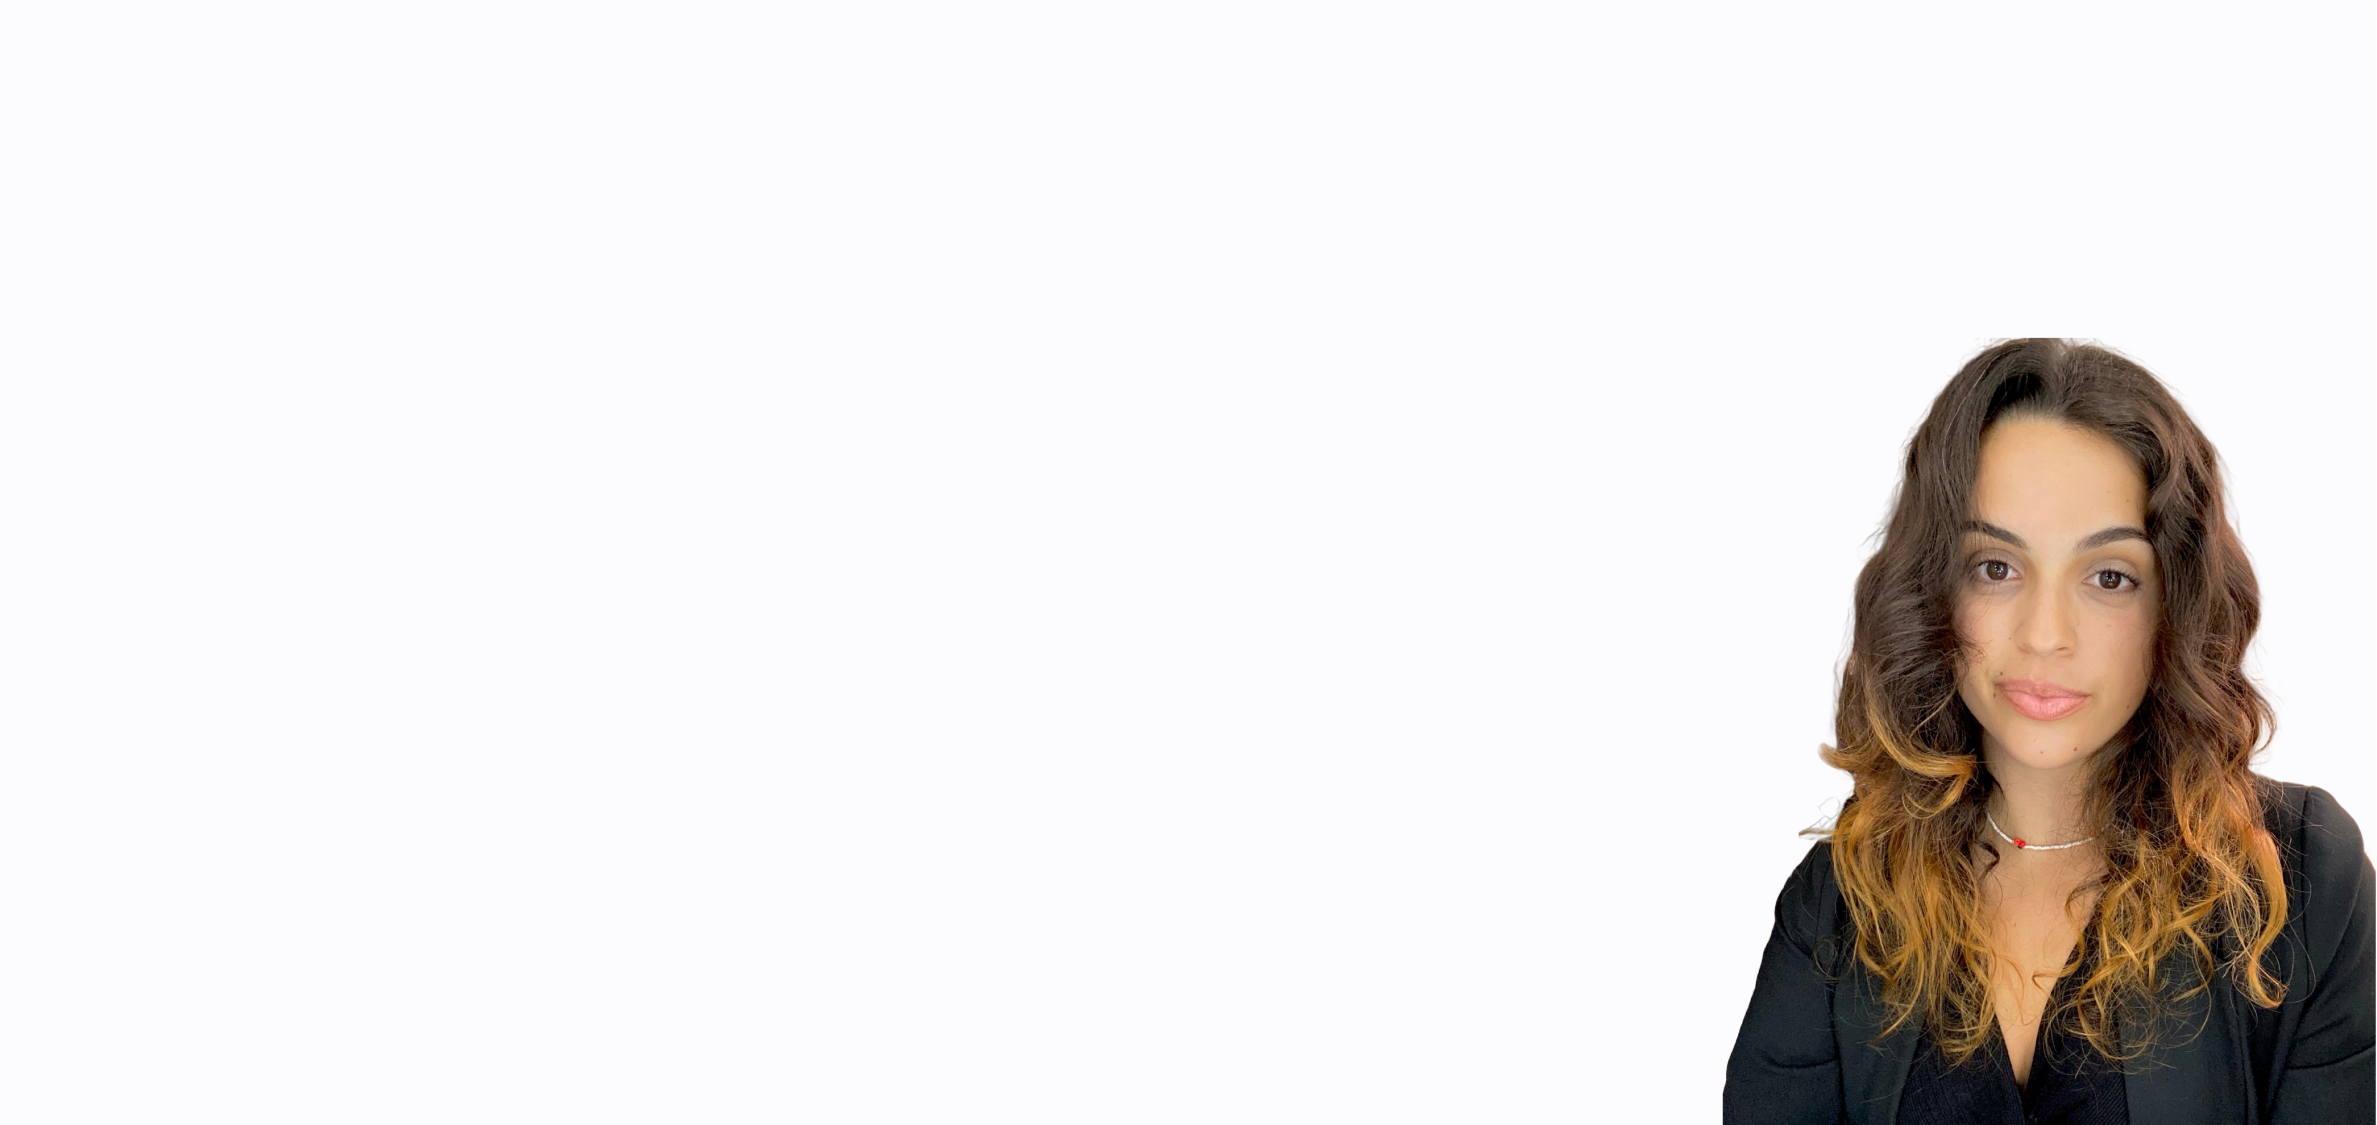
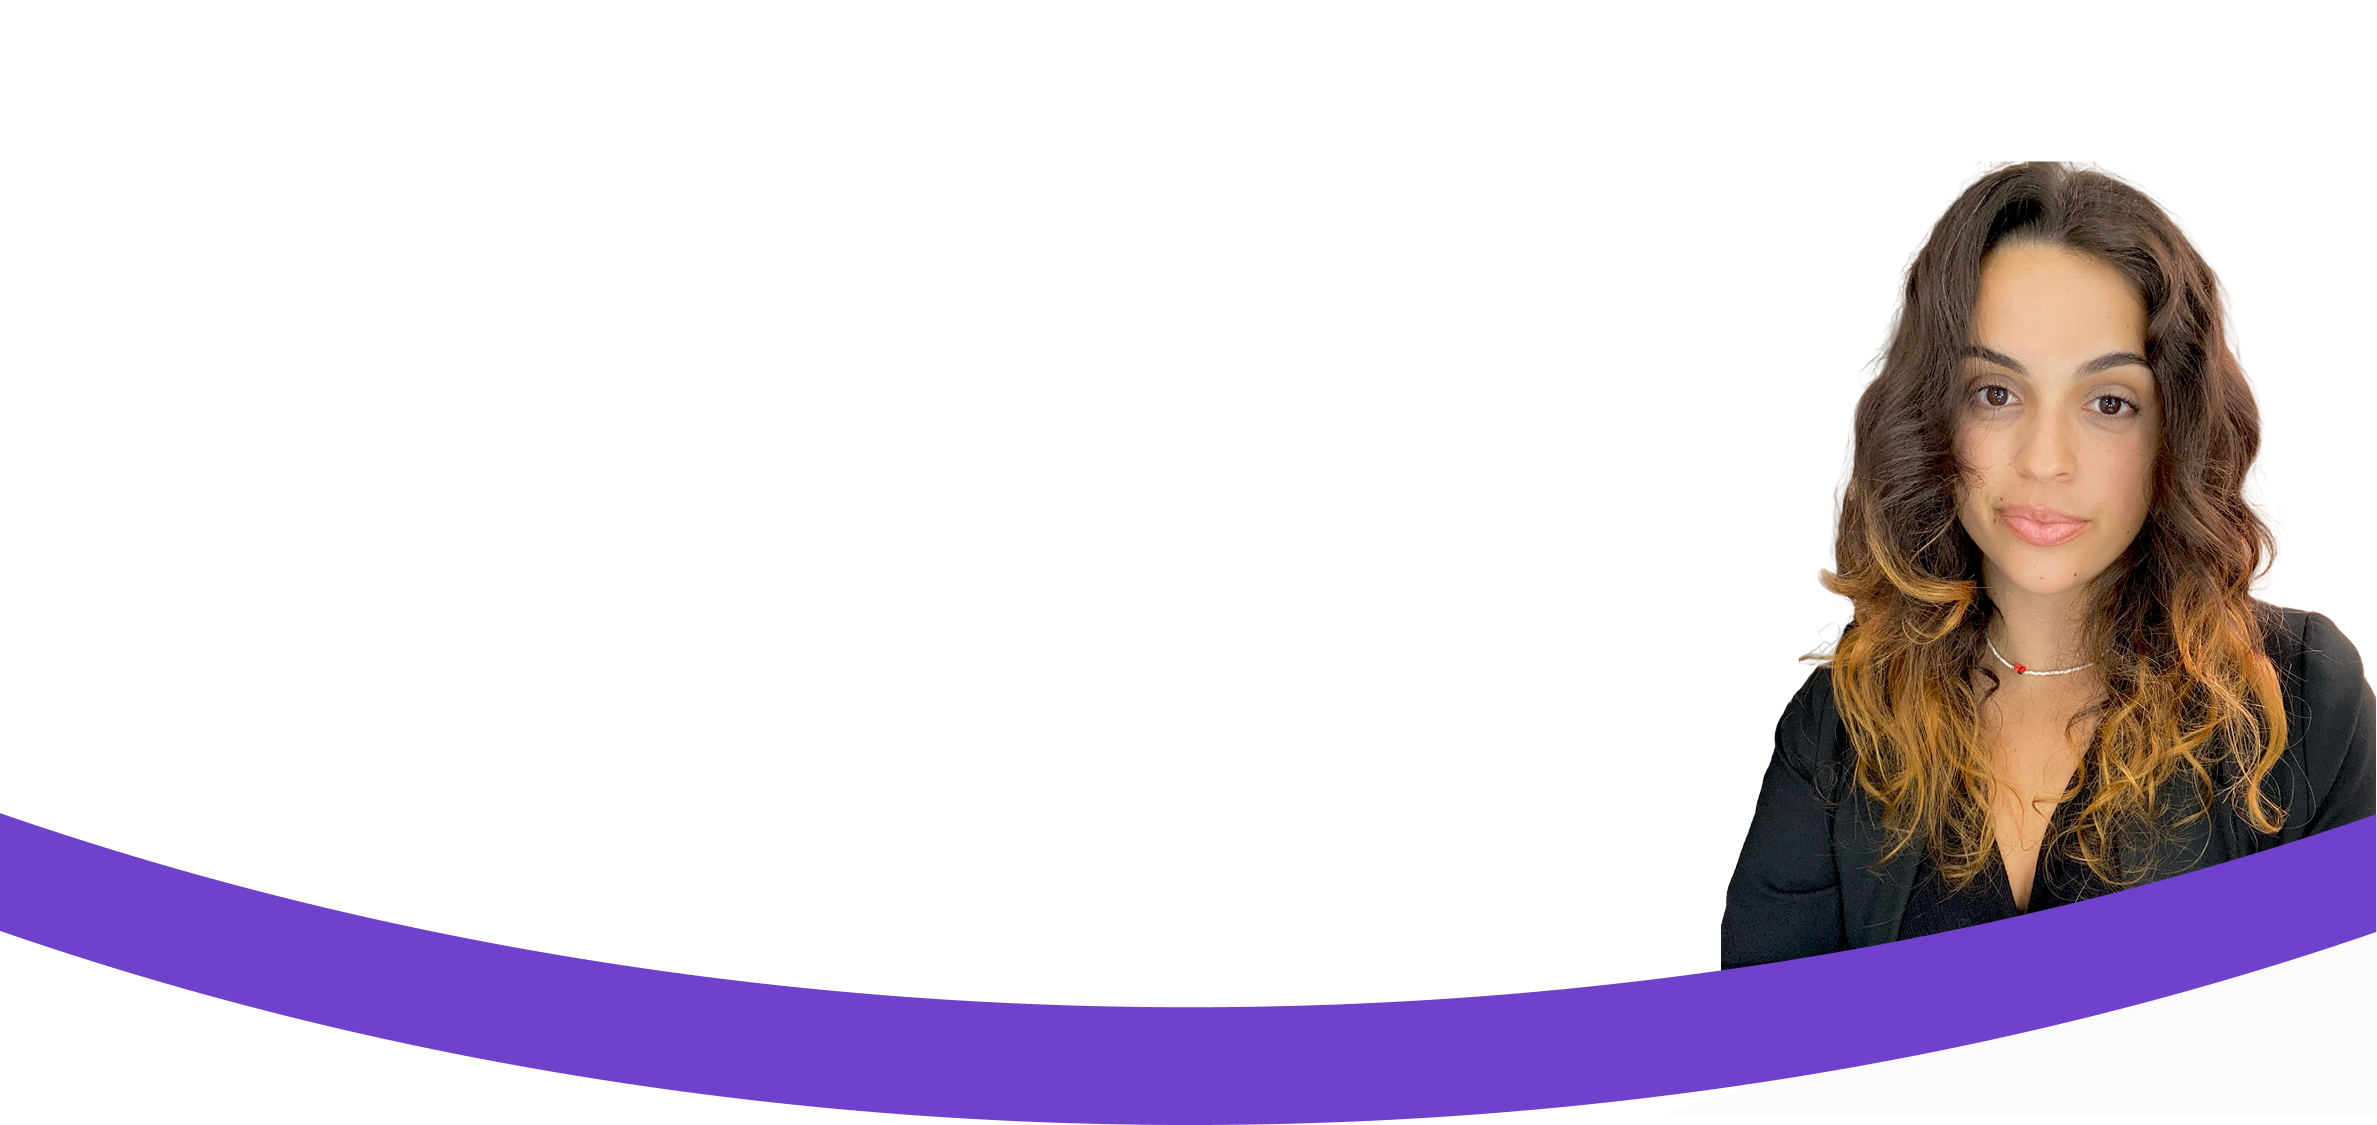
Hero fixes

Changed region(s): [[0.0, 0.1244, 1.0, 1.0]]

diff --git a/assets/scss/_index.scss b/assets/scss/_index.scss
@@ -14,7 +14,7 @@ $font-secondary: 'Koulen', sans-serif;
     padding: 136px 12px 68px 12px;
     background-image: url("../immagini/bg_hero_mobile.png");
     background-repeat: no-repeat;
-    background-position: bottom right;
+    background-position: center;
     background-size: 320px auto;
 }
 
@@ -33,38 +33,38 @@ $font-secondary: 'Koulen', sans-serif;
     text-decoration: none;
 }
 
-@media (min-width: 440px) {
-    #hero {
-        padding-bottom: 80px;
-        background-position: bottom 5px right;
-    }
-}
+// @media (min-width: 440px) {
+//     #hero {
+//         padding-bottom: 80px;
+//         background-position: bottom 5px right;
+//     }
+// }
 
-@media (min-width: 560px) {
-    #hero {
-        padding-bottom: 96px;
-        background-position: bottom 12px right;
-    }
-}
+// @media (min-width: 560px) {
+//     #hero {
+//         padding-bottom: 96px;
+//         background-position: bottom 12px right;
+//     }
+// }
 
-@media (min-width: 630px) {
-    #hero {
-        background-position: bottom 16px right;
-    }
-}
+// @media (min-width: 630px) {
+//     #hero {
+//         background-position: bottom 16px right;
+//     }
+// }
 
-@media (min-width: 680px) {
-    #hero {
-        background-position: bottom 20px right;
-    }
-}
+// @media (min-width: 680px) {
+//     #hero {
+//         background-position: bottom 20px right;
+//     }
+// }
 
 @media (min-width: 744px) {
     #hero {
         padding: 192px 32px 184px 32px;
         background-image: url("../immagini/bg_hero_tablet.png");
         background-repeat: no-repeat;
-        background-position: bottom right;
+        background-position: center;
         background-size: 477px auto;
     }
 
@@ -75,40 +75,40 @@ $font-secondary: 'Koulen', sans-serif;
     }
 }
 
-@media (min-width: 880px) {
-    #hero {
-        padding-bottom: 124px;
-        background-position: bottom 6px right;
-    }
-}
+// @media (min-width: 880px) {
+//     #hero {
+//         padding-bottom: 124px;
+//         background-position: bottom 6px right;
+//     }
+// }
 
-@media (min-width: 970px) {
-    #hero {
-        padding-bottom: 136px;
-        background-position: bottom 10px right;
-    }
-}
+// @media (min-width: 970px) {
+//     #hero {
+//         padding-bottom: 136px;
+//         background-position: bottom 10px right;
+//     }
+// }
 
-@media (min-width: 1040px) {
-    #hero {
-        padding-bottom: 148px;
-        background-position: bottom 14px right;
-    }
-}
+// @media (min-width: 1040px) {
+//     #hero {
+//         padding-bottom: 148px;
+//         background-position: bottom 14px right;
+//     }
+// }
 
-@media (min-width: 1180px) {
-    #hero {
-        padding-bottom: 172px;
-        background-position: bottom 24px right;
-    }
-}
+// @media (min-width: 1180px) {
+//     #hero {
+//         padding-bottom: 172px;
+//         background-position: bottom 24px right;
+//     }
+// }
 
 @media (min-width: 1280px) {
         #hero {
         padding: 156px 64px 132px 64px;
         background-image: url("../immagini/bg_hero_desktop.png");
         background-repeat: no-repeat;
-        background-position: bottom 24px right;
+        background-position: center;
         background-size: 1280px auto;
     }
 
@@ -123,34 +123,26 @@ $font-secondary: 'Koulen', sans-serif;
     }
 }
 
-@media (min-width: 1440px) {
-    #hero {
-        padding-bottom: 156px;
-        background-position: bottom 35px right 100px;
-    }
-}
+// @media (min-width: 1440px) {
+//     #hero {
+//         padding-bottom: 156px;
+//         background-position: bottom 35px right 100px;
+//     }
+// }
 
-@media (min-width: 1640px) {
-    #hero {
-        padding-bottom: 172px;
-        background-position: bottom 46px right 100px;
-    }
-}
+// @media (min-width: 1640px) {
+//     #hero {
+//         padding-bottom: 172px;
+//         background-position: bottom 46px right 100px;
+//     }
+// }
 
-@media (min-width: 1920px) {
-    #hero {
-        background-position: bottom 58px right 100px;
-    }
-}
+// @media (min-width: 1920px) {
+//     #hero {
+//         background-position: bottom 58px right 100px;
+//     }
+// }
 // -- HERO --
-
-.arch {
-    width: 100%;
-    height: 800px;
-    border: 32px solid $tertiary-color;
-    border-top: none;
-    border-radius: 0 0 100% 100%;
-}
 
 // -- SERVIZI --
 .servizi {

diff --git a/dist/css/main.css b/dist/css/main.css
@@ -2,7 +2,7 @@
   padding: 136px 12px 68px 12px;
   background-image: url("../immagini/bg_hero_mobile.png");
   background-repeat: no-repeat;
-  background-position: bottom right;
+  background-position: center;
   background-size: 320px auto;
 }
 
@@ -21,34 +21,12 @@
   text-decoration: none;
 }
 
-@media (min-width: 440px) {
-  #hero {
-    padding-bottom: 80px;
-    background-position: bottom 5px right;
-  }
-}
-@media (min-width: 560px) {
-  #hero {
-    padding-bottom: 96px;
-    background-position: bottom 12px right;
-  }
-}
-@media (min-width: 630px) {
-  #hero {
-    background-position: bottom 16px right;
-  }
-}
-@media (min-width: 680px) {
-  #hero {
-    background-position: bottom 20px right;
-  }
-}
 @media (min-width: 744px) {
   #hero {
     padding: 192px 32px 184px 32px;
     background-image: url("../immagini/bg_hero_tablet.png");
     background-repeat: no-repeat;
-    background-position: bottom right;
+    background-position: center;
     background-size: 477px auto;
   }
   #hero h2 {
@@ -57,36 +35,12 @@
     margin-bottom: 20px;
   }
 }
-@media (min-width: 880px) {
-  #hero {
-    padding-bottom: 124px;
-    background-position: bottom 6px right;
-  }
-}
-@media (min-width: 970px) {
-  #hero {
-    padding-bottom: 136px;
-    background-position: bottom 10px right;
-  }
-}
-@media (min-width: 1040px) {
-  #hero {
-    padding-bottom: 148px;
-    background-position: bottom 14px right;
-  }
-}
-@media (min-width: 1180px) {
-  #hero {
-    padding-bottom: 172px;
-    background-position: bottom 24px right;
-  }
-}
 @media (min-width: 1280px) {
   #hero {
     padding: 156px 64px 132px 64px;
     background-image: url("../immagini/bg_hero_desktop.png");
     background-repeat: no-repeat;
-    background-position: bottom 24px right;
+    background-position: center;
     background-size: 1280px auto;
   }
   #hero h2 {
@@ -98,31 +52,6 @@
     margin-bottom: 48px;
   }
 }
-@media (min-width: 1440px) {
-  #hero {
-    padding-bottom: 156px;
-    background-position: bottom 35px right 100px;
-  }
-}
-@media (min-width: 1640px) {
-  #hero {
-    padding-bottom: 172px;
-    background-position: bottom 46px right 100px;
-  }
-}
-@media (min-width: 1920px) {
-  #hero {
-    background-position: bottom 58px right 100px;
-  }
-}
-.arch {
-  width: 100%;
-  height: 800px;
-  border: 32px solid #7042CC;
-  border-top: none;
-  border-radius: 0 0 100% 100%;
-}
-
 .servizi {
   padding: 80px 12px 0 12px;
   margin-bottom: 32px;

diff --git a/assets/css/main.css b/assets/css/main.css
@@ -2,7 +2,7 @@
   padding: 136px 12px 68px 12px;
   background-image: url("../immagini/bg_hero_mobile.png");
   background-repeat: no-repeat;
-  background-position: bottom right 100px;
+  background-position: center;
   background-size: 320px auto;
 }
 
@@ -21,7 +21,7 @@
   text-decoration: none;
 }
 
-@media (min-width: 440px) {
+/* @media (min-width: 440px) {
   #hero {
     padding-bottom: 80px;
     background-position: bottom 5px right;
@@ -42,13 +42,13 @@
   #hero {
     background-position: bottom 20px right;
   }
-}
+} */
 @media (min-width: 744px) {
   #hero {
     padding: 192px 32px 184px 32px;
     background-image: url("../immagini/bg_hero_tablet.png");
     background-repeat: no-repeat;
-    background-position: bottom right 100px;
+    background-position: center;
     background-size: 744px auto;
   }
   #hero h2 {
@@ -57,7 +57,7 @@
     margin-bottom: 20px;
   }
 }
-@media (min-width: 880px) {
+/* @media (min-width: 880px) {
   #hero {
     padding-bottom: 124px;
     background-position: bottom 6px right;
@@ -80,14 +80,13 @@
     padding-bottom: 172px;
     background-position: bottom 24px right;
   }
-}
+} */
 @media (min-width: 1280px) {
   #hero {
     padding: 156px 64px 132px 64px;
-    transform: translateX(-50%);
     background-image: url("../immagini/bg_hero_desktop.png");
     background-repeat: no-repeat;
-    background-position: bottom 24px right;
+    background-position: center;
     background-size: 1280px auto;
   }
   #hero h2 {
@@ -99,7 +98,7 @@
     margin-bottom: 48px;
   }
 }
-@media (min-width: 1440px) {
+/* @media (min-width: 1440px) {
   #hero {
     padding-bottom: 156px;
     background-position: bottom 35px right;
@@ -115,14 +114,8 @@
   #hero {
     background-position: bottom 58px right;
   }
-}
-.arch {
-    width: 100%;
-    height: 800px;
-    border: 32px solid #7042CC;
-    border-bottom: none;
-    border-radius: 0 0 100% 100%;
-}
+} */
+
 .servizi {
   padding: 80px 12px 0 12px;
   margin-bottom: 32px;

diff --git a/index.html b/index.html
@@ -58,8 +58,6 @@
       <a href="contattami.html" class="primary-buttn">Contattami</a>
     </div>
 
-    <div class="arch"></div>
-
     <div class="servizi">
       <h2>I servizi</h2>
       <p>Cosa faccio</p>
